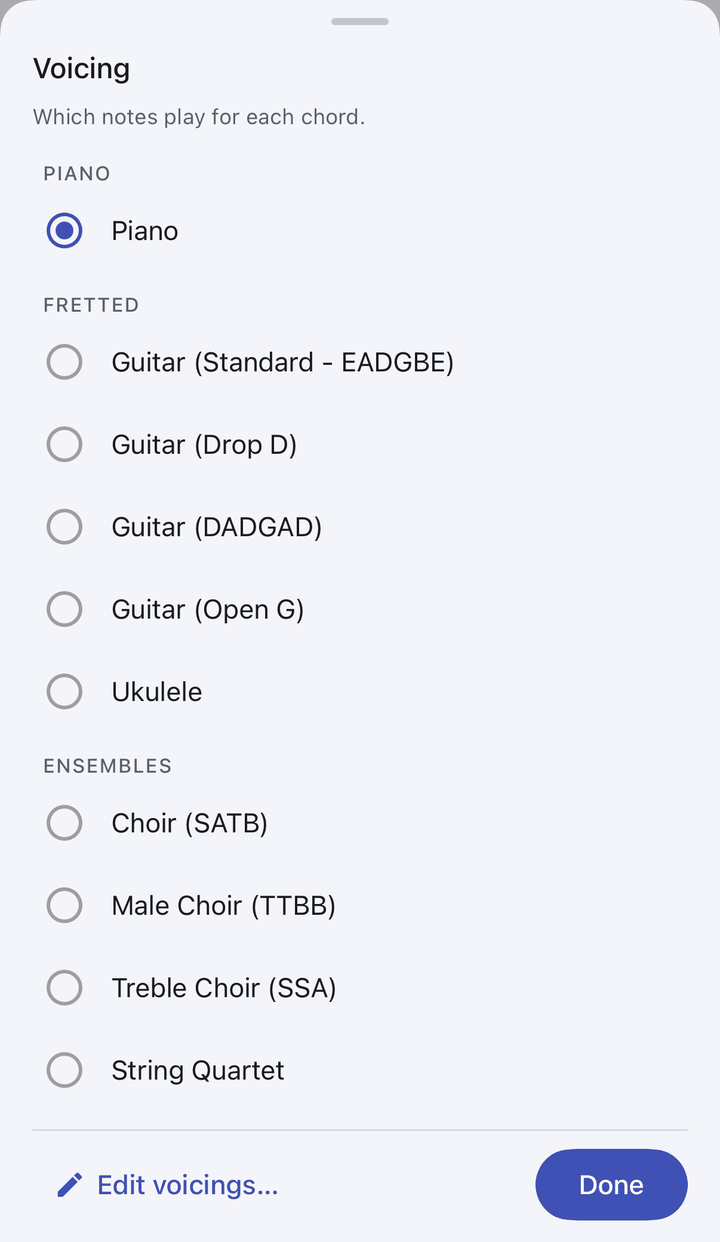
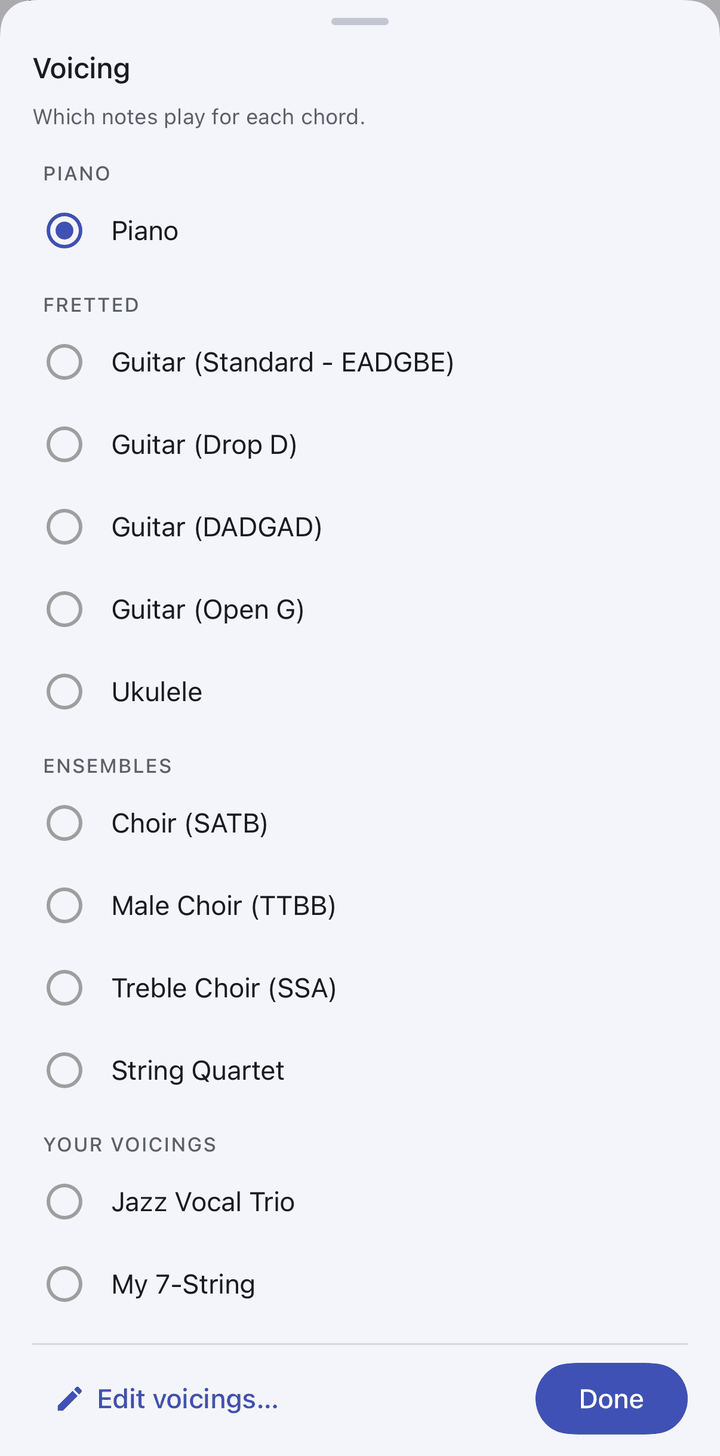
iOS tests: the guide's web view in the app's scene, so the dark look reaches the page (run 45506453523 read prefers-color-scheme light from a window without one); the guide's Voicing sheet screenshot from help_voicing (Your voicings with My 7-String); the catalog is 540 images

diff --git a/ios/ChordNotepadTests/SessionTests.swift b/ios/ChordNotepadTests/SessionTests.swift
@@ -774,7 +774,10 @@ extension SessionTests {
         configuration.setURLSchemeHandler(HelpSchemeHandler(root: UserGuideFiles.directory),
                                           forURLScheme: HelpLinks.scheme)
         let web = WKWebView(frame: CGRect(x: 0, y: 0, width: 402, height: 800), configuration: configuration)
-        let window = UIWindow(frame: web.frame)
+        // In the app's scene, so a change of look reaches the page as it does live.
+        let scene = try XCTUnwrap(UIApplication.shared.connectedScenes.compactMap { $0 as? UIWindowScene }.first)
+        let window = UIWindow(windowScene: scene)
+        window.frame = web.frame
         window.addSubview(web)
         window.isHidden = false
         web.load(URLRequest(url: URL(string: HelpLinks.startURL)!))
@@ -811,10 +814,15 @@ extension SessionTests {
         png.lifetime = .keepAlways
         add(png)
         // Dark: the page follows the view's look (GuideWebView sets it from the app's).
+        window.overrideUserInterfaceStyle = .dark
         web.overrideUserInterfaceStyle = .dark
-        try await Task.sleep(for: .seconds(1))
-        let dark = try await web.evaluateJavaScript("window.matchMedia('(prefers-color-scheme: dark)').matches")
-            as? Bool
+        var dark: Bool?
+        let darkDeadline = ContinuousClock.now + .seconds(10)
+        while dark != true, ContinuousClock.now < darkDeadline {
+            try await Task.sleep(for: .milliseconds(250))
+            dark = try await web.evaluateJavaScript("window.matchMedia('(prefers-color-scheme: dark)').matches")
+                as? Bool
+        }
         XCTAssertEqual(dark, true, "the guide's page follows the dark look")
         let darkImage = try await web.takeSnapshot(configuration: nil)
         let darkPng = XCTAttachment(image: darkImage)

diff --git a/docs/IOS.md b/docs/IOS.md
@@ -1492,7 +1492,7 @@ with and the windows it is drawn in; adding a screen is one line there.
 renders each entry with `ImageRenderer` at iPhone 17 (402×874 pt, @3x) and
 iPad Air 11-inch (820×1180 pt, @2x), and on their sides (874×402,
 1180×820) where the layout differs, light and dark, default and
-`accessibility2` text: 536 PNGs.
+`accessibility2` text: 540 PNGs.
 
 | Screen | Scenes | Windows |
 |---|---|---|
